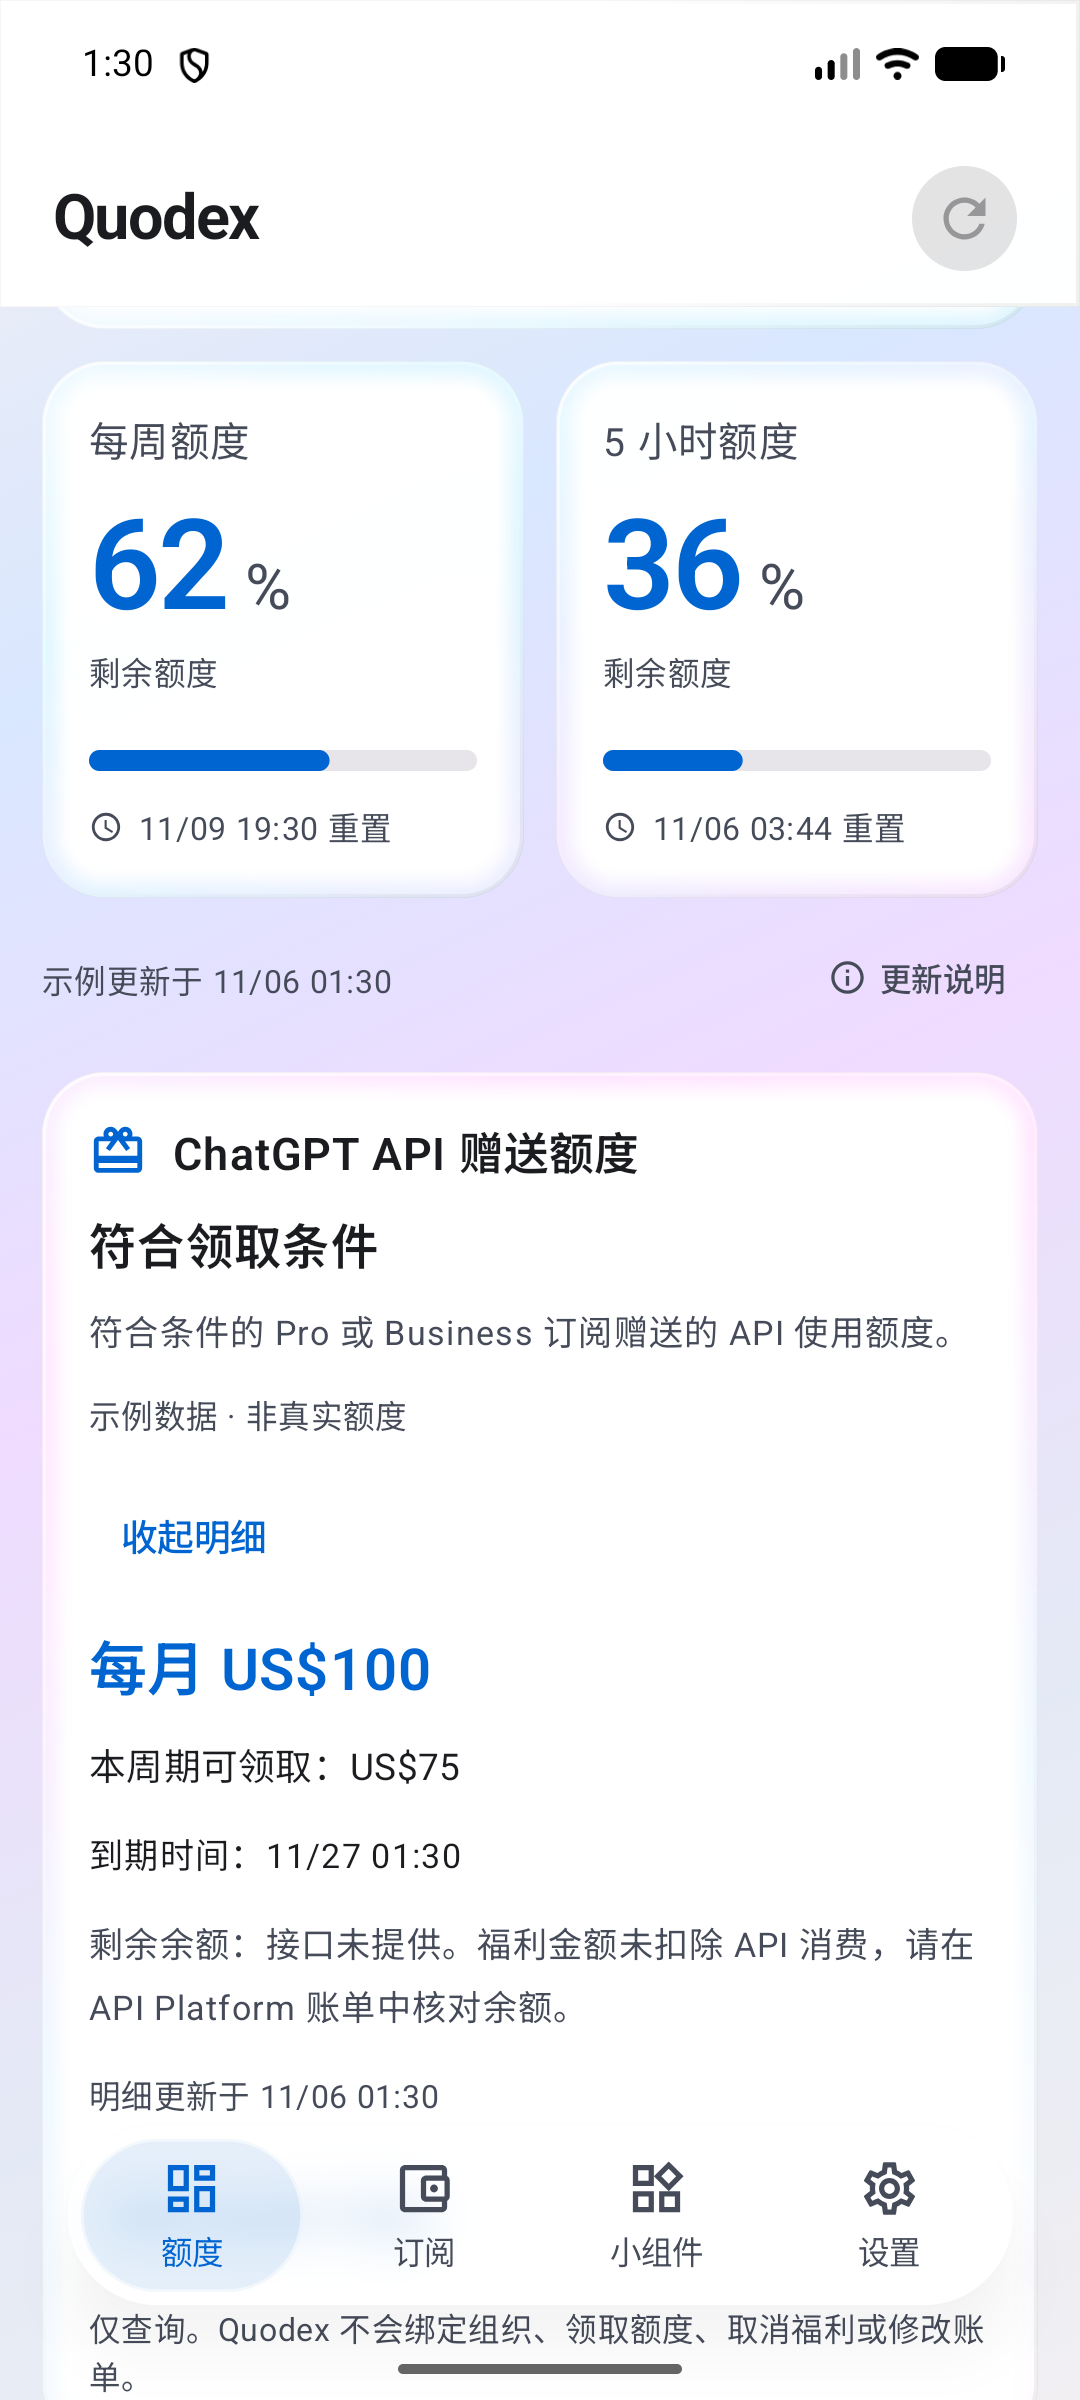
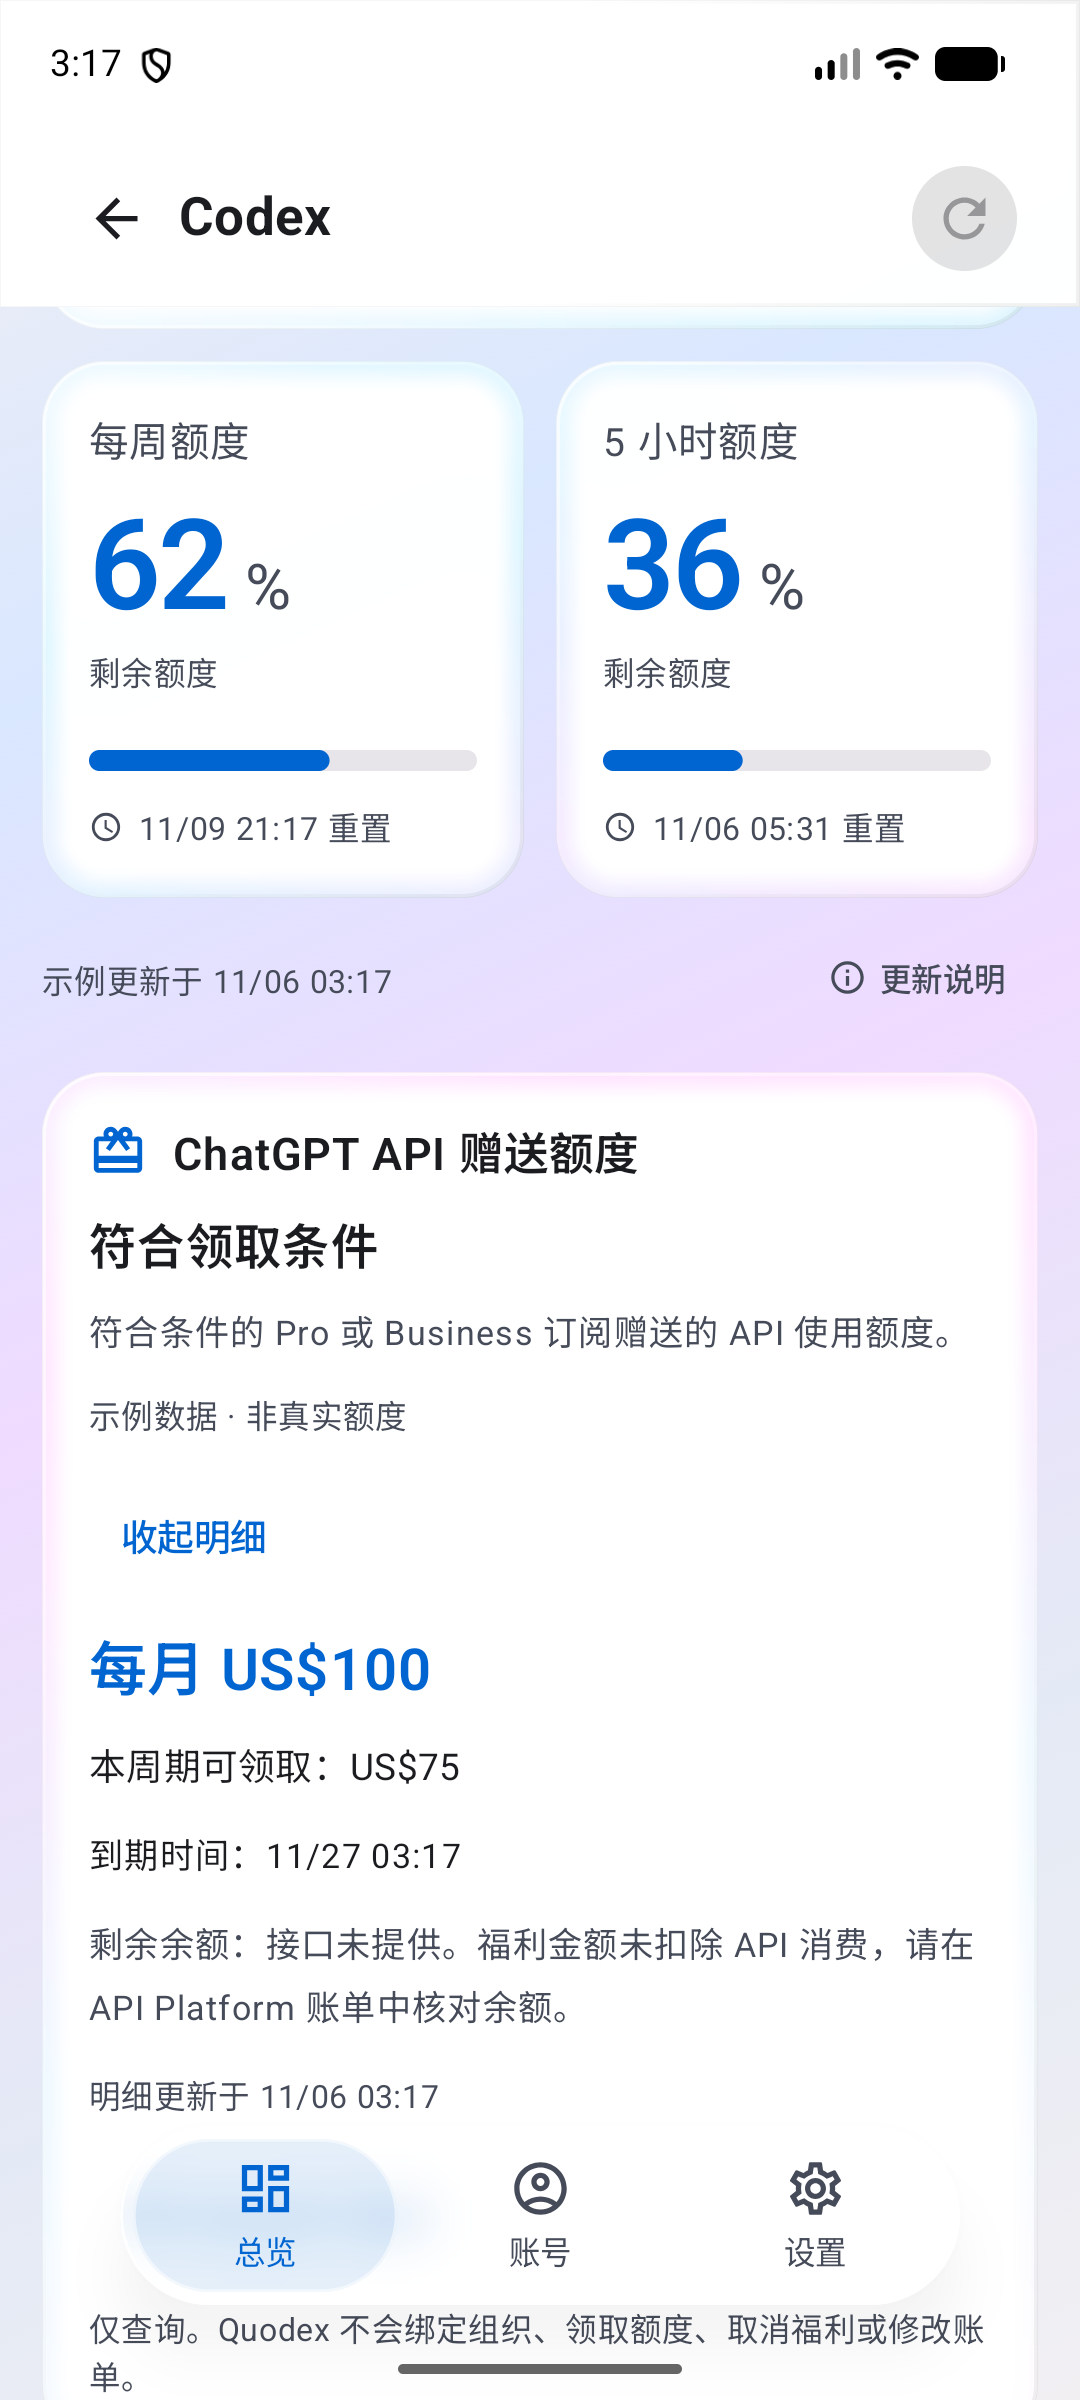
docs(quodex): align glass preview and privacy with current navigation

diff --git a/public/quodex/index.html b/public/quodex/index.html
@@ -343,7 +343,7 @@
                 <tr>
                   <th scope="row"><span>02</span>DeepSeek</th>
                   <td>API 余额，按币种分别展示</td>
-                  <td>订阅页前台查询</td>
+                  <td>账号详情前台查询</td>
                 </tr>
                 <tr>
                   <th scope="row"><span>03</span>OpenCode Go</th>
@@ -462,7 +462,7 @@
           <div>
             <h2>订阅赠送额度，<br /><em>单独查看。</em></h2>
             <p class="section-lede">alpha36 源码新增 ChatGPT Pro／Business API 福利卡：查看领取资格、每周期赠送金额、本周期可领取金额和到期时间。</p>
-            <p>在额度页展开卡片，使用已有 Codex 登录按需查询。五分钟缓存和独立刷新；查询失败保留此前数据。领取、组织绑定及账单管理在官方页面完成。</p>
+            <p>在总览 → Codex 明细展开卡片，使用已有 Codex 登录按需查询。五分钟缓存和独立刷新；查询失败保留此前数据。领取、组织绑定及账单管理在官方页面完成。</p>
             <p class="fine">实验性只读接入，真实账号的 App 自动查询尚待验收，接口可能要求浏览器验证。福利金额不是消费后的剩余余额；缺失余额明确显示不可用，不推算为零。</p>
             <a class="text-link" href="https://github.com/tsonglew/Quodex/blob/master/docs/API_CREDITS.md">接入方式与限制 ↗</a>
           </div>
@@ -478,8 +478,9 @@
           <div>
             <h2>玻璃边缘，<br /><em>清晰文字。</em></h2>
             <p class="section-lede">
-              alpha36 源码更新：额度、Token、订阅、设置、提示和页头统一为玻璃表面，从主题渐变取色；弹窗仍采样真实页面，文字保持清楚。
+              alpha36 源码更新：总览、账号、Codex 明细、紧凑设置、提示和页头统一为玻璃表面，从主题渐变取色；弹窗仍采样真实页面，文字保持清楚。
             </p>
+            <p>总览集中显示已连接服务，账号管理连接，设置采用紧凑分组；桌面组件位于设置 → 桌面展示。<a href="https://github.com/tsonglew/Quodex/blob/master/docs/NAVIGATION.md">导航说明</a>。</p>
             <p>
               在设置 → 外观 →
               玻璃材质中，分别调整浅色、深色底色浓度。启用“减少透明效果”后，所有玻璃表面和桌面组件使用不透明背景。
@@ -501,7 +502,7 @@
           <a href="assets/alpha36/all-glass-settings-dark.png" aria-label="查看完整深色玻璃材质设置截图"
             ><img
               src="assets/alpha36/all-glass-settings-dark.png"
-              alt="alpha36 debug 深色设置页，全部设置面板使用玻璃材质，示例模式"
+              alt="alpha36 debug 三入口导航下的深色紧凑设置，分组使用玻璃材质，示例模式"
               width="1080"
               height="2400"
               loading="lazy"
@@ -587,7 +588,7 @@
           <li>
             <span>02 / CONNECT</span>
             <h3>连接你的服务。</h3>
-            <p>先体验示例模式，再连接 Codex。其他服务在订阅页单独接入，凭据在本机加密保存。</p>
+            <p>先体验示例模式，再连接 Codex。源码版在“账号”页选择服务后单独接入；已发布 alpha35 仍使用订阅页。凭据在本机加密保存。</p>
             <a
               class="text-link"
               href="https://github.com/tsonglew/Quodex/blob/master/docs/SUBSCRIPTIONS.md"
@@ -597,7 +598,7 @@
           <li>
             <span>03 / PIN</span>
             <h3>放到桌面。</h3>
-            <p>添加 Codex 额度或热力图组件。小米、Redmi、POCO 用户可先检查桌面快捷方式权限。</p>
+            <p>源码版从设置 → 桌面展示添加 Codex 额度或热力图组件。小米、Redmi、POCO 用户可先检查桌面快捷方式权限。</p>
             <a
               class="text-link"
               href="https://github.com/tsonglew/Quodex/blob/master/docs/HOME_SCREEN_PERMISSION.md"
